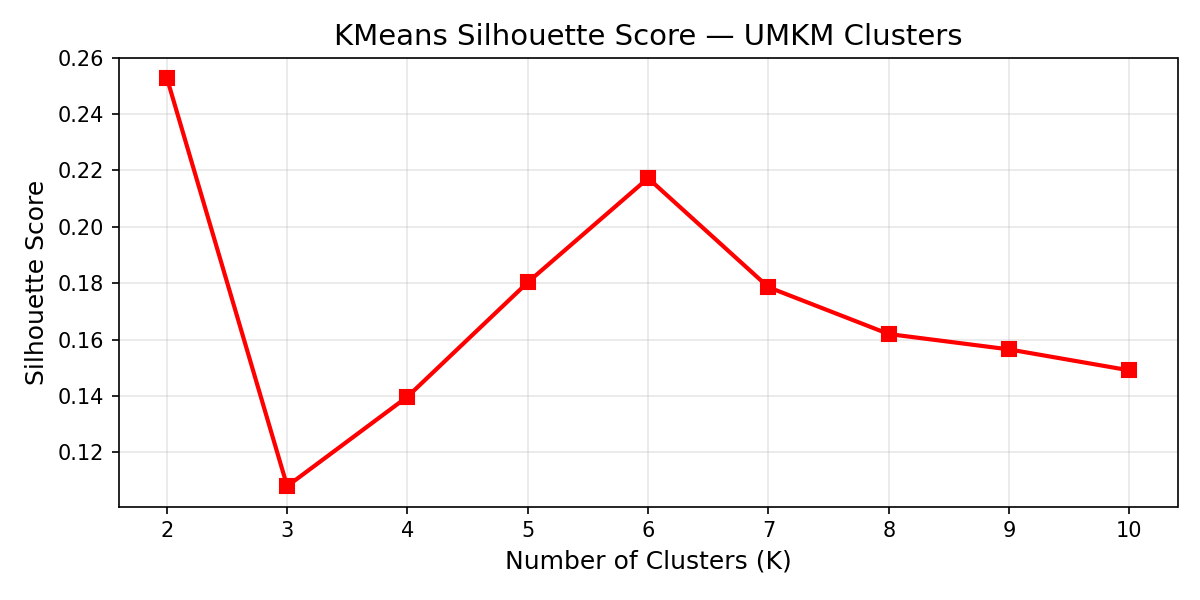
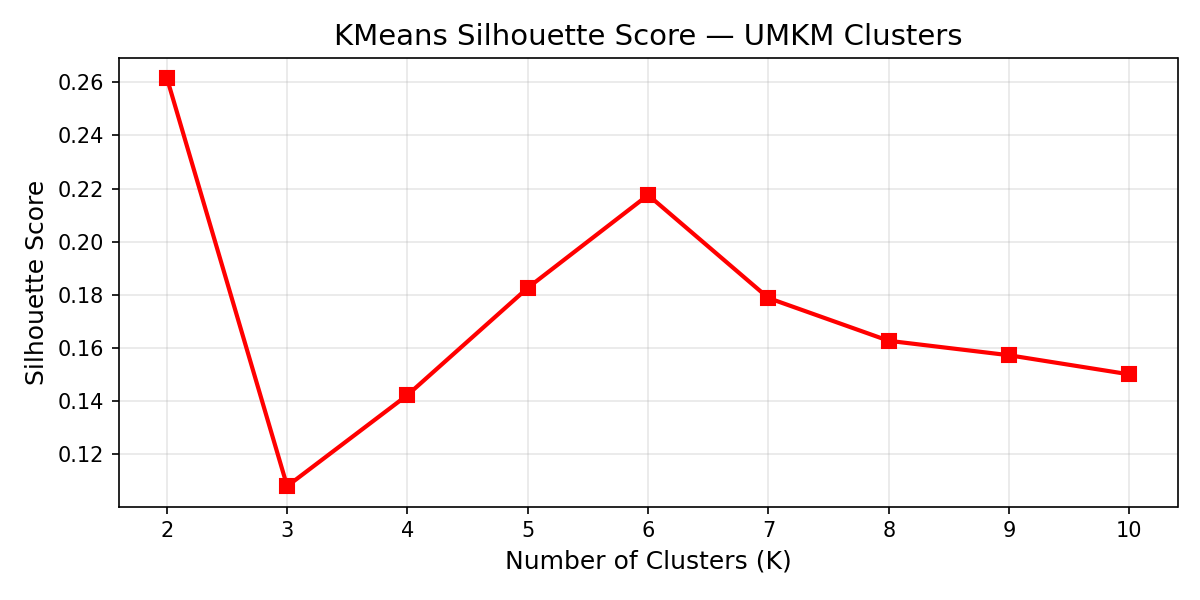
cw design

diff --git a/app/Models/User.php b/app/Models/User.php
@@ -111,6 +111,45 @@ class User extends Authenticatable implements JWTSubject  // implements JWTSubje
         return $this->ratingsQuery()->count();
     }
 
+    public function getFiveStarRatingsCountAttribute()
+    {
+        return $this->ratingsQuery()->where('rating', 5)->count();
+    }
+
+    public function getCreativeTierAttribute()
+    {
+        if (!$this->isCreativeWorker()) {
+            return null;
+        }
+
+        $fiveStarCount = $this->five_star_ratings_count;
+
+        if ($fiveStarCount >= 20) {
+            return [
+                'name' => 'Expert',
+                'badge' => asset('images/badges/star-red.jpg'),
+                'color' => 'text-rose-600',
+                'bg' => 'bg-rose-50',
+            ];
+        } elseif ($fiveStarCount >= 10) {
+            return [
+                'name' => 'Intermediate',
+                'badge' => asset('images/badges/star-blue.jpg'),
+                'color' => 'text-blue-600',
+                'bg' => 'bg-blue-50',
+            ];
+        } elseif ($fiveStarCount >= 1) {
+            return [
+                'name' => 'Beginner',
+                'badge' => asset('images/badges/star-yellow.jpg'),
+                'color' => 'text-amber-600',
+                'bg' => 'bg-amber-50',
+            ];
+        }
+
+        return null;
+    }
+
     public function recentRatings(int $limit = 5)
     {
         return $this->ratingsQuery()

diff --git a/resources/views/creators/index.blade.php b/resources/views/creators/index.blade.php
@@ -111,18 +111,27 @@
                     {!! $borderDecor !!}
                     <div class="relative z-10 flex flex-col h-full">
                         <!-- Profile Header -->
-                        <div class="flex items-center gap-5 mb-6">
+                        <div class="flex items-start gap-5 mb-6 relative">
                             <div class="w-20 h-20 rounded-[1.5rem] overflow-hidden shrink-0 border-2 border-white shadow-lg shadow-[#2563EB]/10 group-hover:scale-105 transition-transform">
                                 <img src="{{ $creator->profile_photo ?? 'https://ui-avatars.com/api/?name='.urlencode($creator->name).'&background=2563EB&color=fff' }}" alt="{{ $creator->name }}" class="w-full h-full object-cover">
                             </div>
-                            <div>
-                                <h3 class="text-xl font-display font-bold text-[#1E3A8A] leading-tight group-hover:text-[#2563EB] transition-colors">{{ $creator->name }}</h3>
-                                <div class="flex items-center gap-2 mt-1">
+                            <div class="flex-grow pt-1">
+                                <h3 class="text-xl font-display font-bold text-[#1E3A8A] leading-tight group-hover:text-[#2563EB] transition-colors pr-8">{{ $creator->name }}</h3>
+                                <div class="flex flex-wrap items-center gap-2 mt-1.5">
                                     <span class="text-xs font-bold text-[#2563EB] uppercase tracking-wider">{{ $creator->display_creative_category ?? 'Creative Worker' }}</span>
                                     <span class="w-1 h-1 bg-[#1E3A8A]/20 rounded-full"></span>
                                     <span class="text-xs font-medium text-[#1E3A8A]/40">{{ $creator->city ?? 'Domisili tidak diatur' }}</span>
                                 </div>
                             </div>
+
+                            @if($creator->creative_tier)
+                                <div class="absolute top-0 right-0 flex flex-col items-end" title="Tier: {{ $creator->creative_tier['name'] }}">
+                                    <img src="{{ $creator->creative_tier['badge'] }}" alt="Tier Badge" class="w-10 h-10 object-contain drop-shadow-md transition-transform group-hover:scale-110 group-hover:rotate-6">
+                                    <span class="text-[9px] font-extrabold uppercase mt-1 px-2 py-0.5 rounded-full {{ $creator->creative_tier['bg'] }} {{ $creator->creative_tier['color'] }} shadow-sm">
+                                        {{ $creator->creative_tier['name'] }}
+                                    </span>
+                                </div>
+                            @endif
                         </div>
 
                         <!-- Skills & Stats -->

diff --git a/resources/views/creators/show.blade.php b/resources/views/creators/show.blade.php
@@ -44,7 +44,17 @@
                     </div>
 
                     <div>
-                        <p class="text-[11px] font-extrabold uppercase tracking-[0.22em] text-[#2563EB] mb-2">{{ $creator->display_creative_category ?? 'Creative Worker' }}</p>
+                        <div class="flex items-center gap-3 mb-2">
+                            <p class="text-[11px] font-extrabold uppercase tracking-[0.22em] text-[#2563EB]">{{ $creator->display_creative_category ?? 'Creative Worker' }}</p>
+                            @if($creator->creative_tier)
+                                <div class="inline-flex items-center gap-1.5 px-2.5 py-1 rounded-full {{ $creator->creative_tier['bg'] }} border border-white shadow-sm" title="{{ $creator->five_star_ratings_count }} ulasan bintang 5">
+                                    <img src="{{ $creator->creative_tier['badge'] }}" alt="Tier Badge" class="w-4 h-4 object-contain">
+                                    <span class="text-[10px] font-extrabold uppercase tracking-wider {{ $creator->creative_tier['color'] }}">
+                                        {{ $creator->creative_tier['name'] }}
+                                    </span>
+                                </div>
+                            @endif
+                        </div>
                         <h1 class="font-display text-3xl md:text-5xl font-bold text-[#1E3A8A] leading-tight">{{ $creator->name }}</h1>
                         <div class="flex flex-wrap items-center gap-3 mt-3 text-sm text-[#1E3A8A]/55 font-medium">
                             <span>{{ $creator->city ?? 'Domisili belum diatur' }}</span>